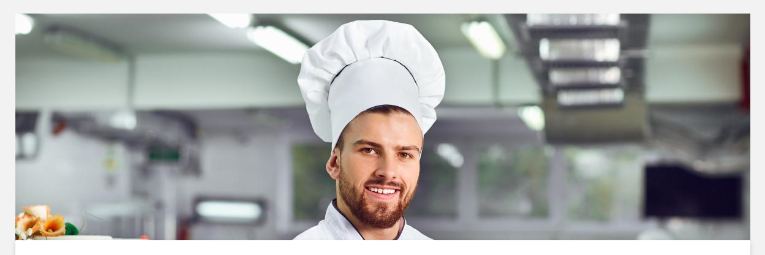
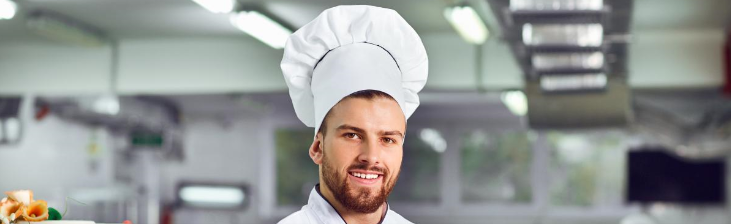
Ajout de la page coordonées version web et mobile

diff --git a/Coordonnées.html b/Coordonnées.html
@@ -9,7 +9,7 @@
     <!-- Bootstrap CSS -->
     <link rel="stylesheet" href="https://cdn.jsdelivr.net/npm/bootstrap@4.5.3/dist/css/bootstrap.min.css"
         integrity="sha384-TX8t27EcRE3e/ihU7zmQxVncDAy5uIKz4rEkgIXeMed4M0jlfIDPvg6uqKI2xXr2" crossorigin="anonymous">
-    <link rel="stylesheet" href="assets/css/style-qui-suis-je.css">
+    <link rel="stylesheet" href="assets/css/style-coordonnées.css">
     <script src="https://kit.fontawesome.com/d89aa1e4ce.js" crossorigin="anonymous"></script>
     <title>John Pâtissier</title>
 </head>
@@ -56,61 +56,28 @@
     </nav>
 
     <div class="container-fluid d-none d-sm-block text-dark">
-        <div class="row container-sm justify-content-sm-start">
-            <h1 class="col-sm pl-5 pt-5 mt-5">Qui suis-je ?</h1>
-        </div>
-        <div class="row mt-2 justify-content-sm-center">
-            <div class="col-sm-10">
-                <div class="row border p-0 shadow mb-5 bg-white">
-                    <div class="col-sm-4 p-0 div-img"><img class="img-fluid" src="assets/img/PhotoPâtissier.PNG"
-                            alt="Portrait du Pâtissier">
-                    </div>
-                    <div class="col-sm-7 p-4">
-                        <div class="row pl-2 h2">John Cupckèque</div>
-                        <p class="row p-3">Lorem ipsum dolor sit amet, consectetur adipiscing elit. Suspendisse lacinia,
-                            velit quis vestibulum convallis,
-                            purus tellus porttitor nibh, vitae euismod quam ipsum non velit. Nam tincidunt facilisis ex,
-                            non
-                            feugiat massa dignissim et.
-                            Aliquam at convallis quam. Lorem ipsum dolor sit amet, consectetur adipiscing elit. Praesent
-                            pretium
-                            nisi vitae augue condimentum
-                            faucibus. Fusce volutpat, sem nec eleifend tincidunt, est mi aliquam arcu, vel consectetur
-                            magna
-                            elit nec diam. Aliquam feugiat
-                            accumsan varius. Interdum et malesuada fames ac ante ipsum primis in faucibus. Donec in
-                            purus
-                            leo.
-                            Proin nec vestibulum quam, at
-                            convallis nulla. Proin tincidunt elit eu semper commodo. Proin eros mauris, tempor vitae
-                            lobortis
-                            eget, tempus ut sem.<br>
-
-                            Nunc vitae varius arcu. Phasellus varius risus aliquam congue vulputate. Curabitur tellus
-                            urna,
-                            pharetra non laoreet id,
-                            tristique a magna. In pulvinar, ipsum id auctor suscipit, eros lorem accumsan quam, sit amet
-                            pulvinar magna dui vitae sapien.
-                            Phasellus ullamcorper eros maximus ipsum lobortis, non luctus velit placerat. Donec varius,
-                            felis
-                            vel pulvinar tincidunt,
-                            felis diam sollicitudin augue, eu luctus mauris orci at massa. Vivamus odio nisi, venenatis
-                            sit
-                            amet
-                            ligula a, ultrices luctus nunc.
-                            Lorem ipsum dolor sit amet, consectetur adipiscing elit. Duis tincidunt ipsum orci, aliquet
-                            condimentum erat sodales a.
-                            Curabitur ac varius lorem, nec faucibus est. Ut feugiat augue sit amet vestibulum
-                            dictum.<br>
-
-                            Amet ligula a, ultrices luctus nunc. Lorem ipsum dolor sit amet, consectetur adipiscing
-                            elit.
-                            Duis
-                            tincidunt ipsum orci,
-                            aliquet condimentum erat sodales a. Curabitur ac varius lorem, nec faucibus est. Ut feugiat
-                            augue
-                            sit amet vestibulum dictum.
-                        </p>
+        <h1 class="row p-5 mt-5 ml-2">Mes coordonnées</h1>
+        <div class="col-9 container paddingContainer border shadow mb-5 bg-white">
+            <div class="row justify-content-sm-center div-img"><img class="img-fluid"
+                    src="assets/img/PhotoPâtissierContact.PNG" alt="Portrait du Pâtissier"></div>
+            <div class="row contactInformationSize p-5">Mes coordonnées</div>
+            <div class="col-10 container">
+                <div class="row container d-flex justify-content-around align-items-center pl-3">
+                    <div class="col-sm-1 ml-2"><img class="img-fluid" src="assets/img/Icône-téléphone.PNG"
+                            alt="Portrait du Pâtissier"></div>
+                    <p>555-555-555</p>
+                    <div class="col-sm-1 pl-2"><img class="img-fluid" src="assets/img/Icône-boîte-mail.PNG"
+                            alt="Portrait du Pâtissier"></div>
+                    <p>johnlepatissier@gmail.com</p>
+                    <div class="col-sm-2 d-flex align-items-center div-img1">
+                        <div class="px-1"><img src="assets/img/icône-lien-facebook-plein.png"
+                                alt="Icône les vers facebook"></div>
+                        <div class="px-1"><img src="assets/img/icône-lien-instagram-plein.PNG"
+                                alt="Icône les vers instagram">
+                        </div>
+                        <div class="px-1"><img src="assets/img/icône-lien-linkedln-plein.PNG"
+                                alt="Icône les vers linkedln">
+                        </div>
                     </div>
                 </div>
             </div>
@@ -118,33 +85,25 @@
     </div>
 
     <div class="container-fluid d-block d-sm-none text-dark">
-        <div class="row container-sm-12">
-            <div class="col-sm-12">
-                <div class="row div-img"><img class="img-fluid" src="assets/img/PhotoPâtissierMobile.PNG"
-                        alt="Portrait du Pâtissier">
+        <p class="row justify-content-center p-0 h1Mobile">Mes coordonnées</p>
+        <div class="col-10 container paddingMobile border shadow mb-5 bg-white">
+            <div class="row justify-content-sm-center div-img"><img class="img-fluid"
+                    src="assets/img/PhotoPâtissierMobile.PNG" alt="Portrait du Pâtissier">
+            </div>
+            <div class="row container-sm align-items-center div-img2 pl-4 marginCoordonéesMobile">
+                <img class="img-fluid" src="assets/img/Icône-téléphone.PNG" alt="Portrait du Pâtissier">
+                <div class="pMobile">555-555-555</div>
+            </div>
+            <div class="row container-sm align-items-center div-img2 pl-4 marginCoordonéesMobile">
+                <img class="img-fluid" src="assets/img/Icône-boîte-mail.PNG" alt="Portrait du Pâtissier">
+                <div class="pMobile">johnlepatissier@gmail.com</div>
+            </div>
+            <div class="col-sm-2 d-flex align-items-center justify-content-center div-img2 pt-5">
+                <div class="px-1"><img src="assets/img/icône-lien-facebook-plein.png" alt="Icône les vers facebook">
                 </div>
-                <div class="row h4 p-4">Qui suis-je ?</div>
-                <div class="row d-flex">
-                    <div class="col-sm mx-5 border p-0 shadow mb-5 bg-white">
-                        <div class="row px-4 pt-2 h4">John Cupckèque</div>
-                        <p class="row mx-1 p-3 presentationSize">Lorem ipsum dolor sit amet, consectetur adipiscing
-                            elit.
-                            Suspendisse lacinia, velit quis vestibulum convallis, purus tellus porttitor nibh,
-                            vitae euismod quam ipsum non velit. Nam tincidunt facilisis ex, non feugiat massa dignissim
-                            et.
-                            Aliquam at convallis quam. Lorem ipsum dolor sit amet, consectetur adipiscing elit.
-                            Praesent pretium nisi vitae augue condimentum faucibus. Fusce volutpat, sem nec eleifend
-                            tincidunt,
-                            est mi aliquam arcu, vel consectetur magna elit nec diam. Aliquam feugiat accumsan varius.
-                            Interdum et malesuada fames ac ante ipsum primis in faucibus. Donec in purus leo.
-                            Proin nec vestibulum quam, at convallis nulla. Proin tincidunt elit eu semper commodo.
-                            Proin eros mauris, tempor vitae lobortis eget, tempus ut sem.<br>
-
-                            feugiat accumsan varius. Interdum et malesuada fames ac ante ipsum primis in faucibus.
-                            Donec in purus leo. Proin nec vestibulum quam, at convallis nulla. Proin tincidunt elit
-                            eu semper commodo. Proin eros mauris, tempor vitae lobortis eget, tempus ut sem<br>
-                        </p>
-                    </div>
+                <div class="px-1"><img src="assets/img/icône-lien-instagram-plein.PNG" alt="Icône les vers instagram">
+                </div>
+                <div class="px-1"><img src="assets/img/icône-lien-linkedln-plein.PNG" alt="Icône les vers linkedln">
                 </div>
             </div>
         </div>

diff --git a/assets/css/style-coordonnées.css b/assets/css/style-coordonnées.css
@@ -12,9 +12,8 @@ body {
 }
 
 .div-img img {
-    width: 30rem;
+    width: 90rem;
     height: auto;
-    margin-top: 3.5rem;
 }
 
 .div-img1 img {
@@ -22,25 +21,60 @@ body {
     height: auto;
 }
 
+.div-img2 img {
+    width: 1.5rem;
+    height: auto;
+}
+
 .marginMention {
     margin-left: 10rem;
+}
+
+.marginCoordonéesMobile {
+    margin-top: 1.8rem;
 }
 
 .footer {
     background-color: #6A4F4B;
 }
 
-hr {
-    margin-top: 1rem;
-    color: white;
-}
-
 h1 {
     font-size: 4rem;
 }
 
-.presentationSize {
-    font-size: 0.6rem;
+.h1Mobile {
+    font-size: 1rem;
+    margin-top: 5rem;
+    margin-bottom: 4rem;
+}
+
+.contactInformationSize {
+    font-size: 2rem;
+    margin-left: 0.2rem;
+    margin-bottom: 2rem;
+    color: #707070;
+}
+
+p {
+    font-size: 1.2rem;
+    padding-right: 6rem;
+    color: #707070;
+}
+
+.pMobile {
+    font-size: 0.7rem;
+    padding-left: 3.2rem;
+    color: #707070;
+}
+
+.paddingContainer {
+    padding-bottom: 13rem;
+    margin-bottom: 5rem;
+}
+
+.paddingMobile {
+    padding-bottom: 1.8rem;
+    margin-bottom: 5rem;
 }
 
 .burger-menu {
